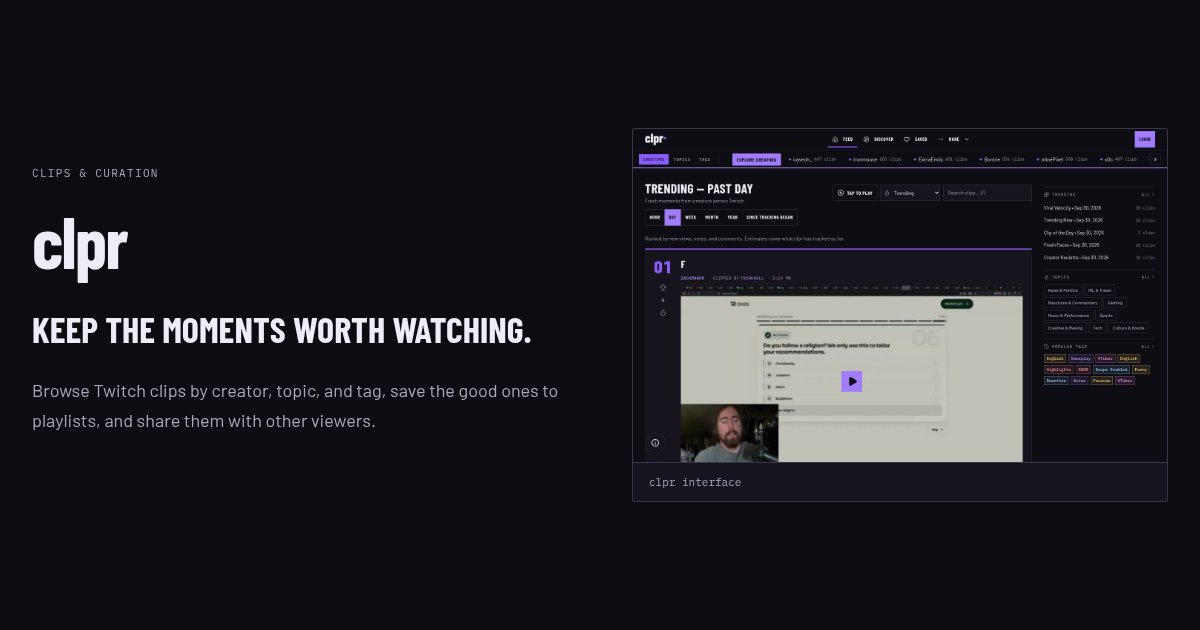
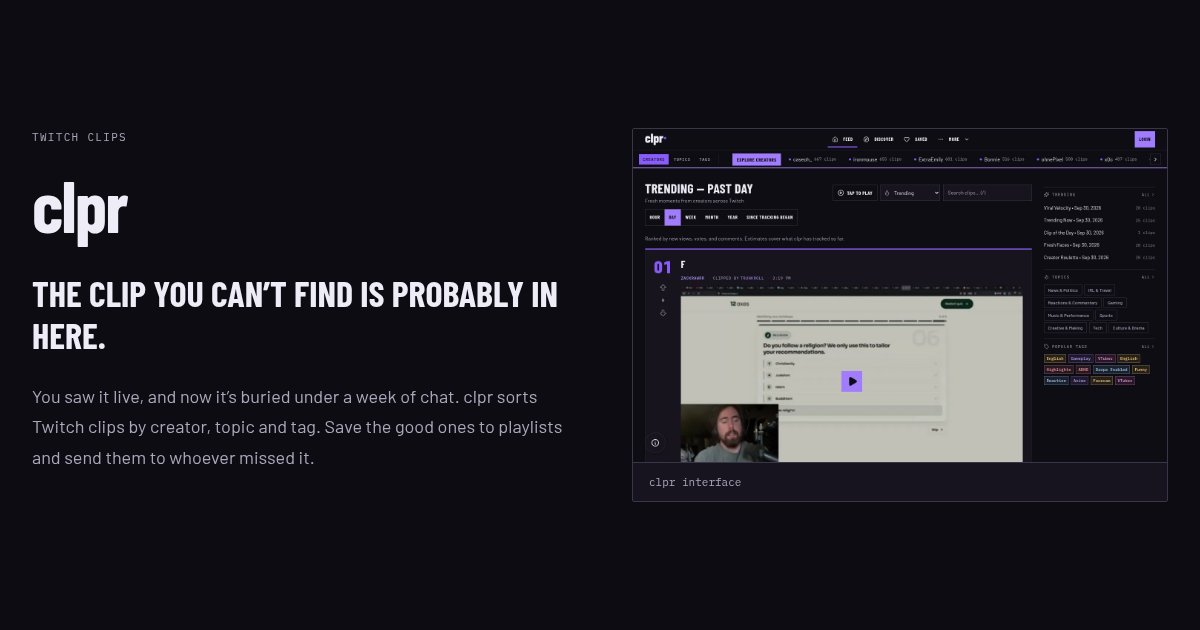
site(share): recapture share images from the rewritten landings
Recapture public/og-image.png and eight public/og/<slug>.jpg files with
npm run capture-og-images against a local vite preview of this branch.
The site-wide image had the old home deck and button label.

The capture script now skips left-field: public/og/left-field.jpg is a
Studio export bound by docs/left-field-brand-provenance.json (sha256
d939eaf88a19181324069e507295fa0e6cd0e04973b0b56cb1542434108fed67, unchanged).

Update the Left Field hero alt text to the exported headline.

diff --git a/scripts/capture-og-images.ts b/scripts/capture-og-images.ts
@@ -7,6 +7,10 @@
  * from each product landing hero, in that product's own design. Rerun after
  * changing a landing page's hero, headline, or screenshot.
  *
+ * public/og/left-field.jpg is not captured: it is a Studio export written by
+ * `make studio-export-left-field` and its hash is recorded in
+ * docs/left-field-brand-provenance.json.
+ *
  * Usage:
  *   npm run build && npm run preview          # serves on :4173
  *   npm run capture-og-images                 # in another terminal
@@ -22,6 +26,9 @@ import { PRODUCT_ROUTES } from '../src/lib/product-paths.js';
 
 const BASE_URL = process.env.BASE_URL ?? 'http://localhost:4173';
 const PUBLIC_DIR = join(process.cwd(), 'public');
+
+// Share images owned by a Studio export; capturing would break their provenance hash.
+const STUDIO_EXPORTED = new Set(['left-field']);
 
 // Hide site chrome and tighten the hero so it fills the 1200×630 frame.
 const FRAME_CSS = `
@@ -65,6 +72,10 @@ async function main() {
 
   await capture(page, '/', '.showcase-hero', join(PUBLIC_DIR, 'og-image.png'), 'png');
   for (const [slug, route] of Object.entries(PRODUCT_ROUTES)) {
+    if (STUDIO_EXPORTED.has(slug)) {
+      console.log(`- /products/${route} skipped (Studio export)`);
+      continue;
+    }
     await capture(
       page,
       `/products/${route}`,

diff --git a/src/components/ProductVisual.tsx b/src/components/ProductVisual.tsx
@@ -12,7 +12,7 @@ export default function ProductVisual({
     return (
       <img
         src="/brand/left-field/hero.svg"
-        alt="Left Field: Read the field. Trace the evidence. LF mark on warm paper."
+        alt="Left Field: Where the field bends. LF mark on warm paper."
         loading={priority ? 'eager' : 'lazy'}
         fetchPriority={priority ? 'high' : 'auto'}
         decoding="async"
